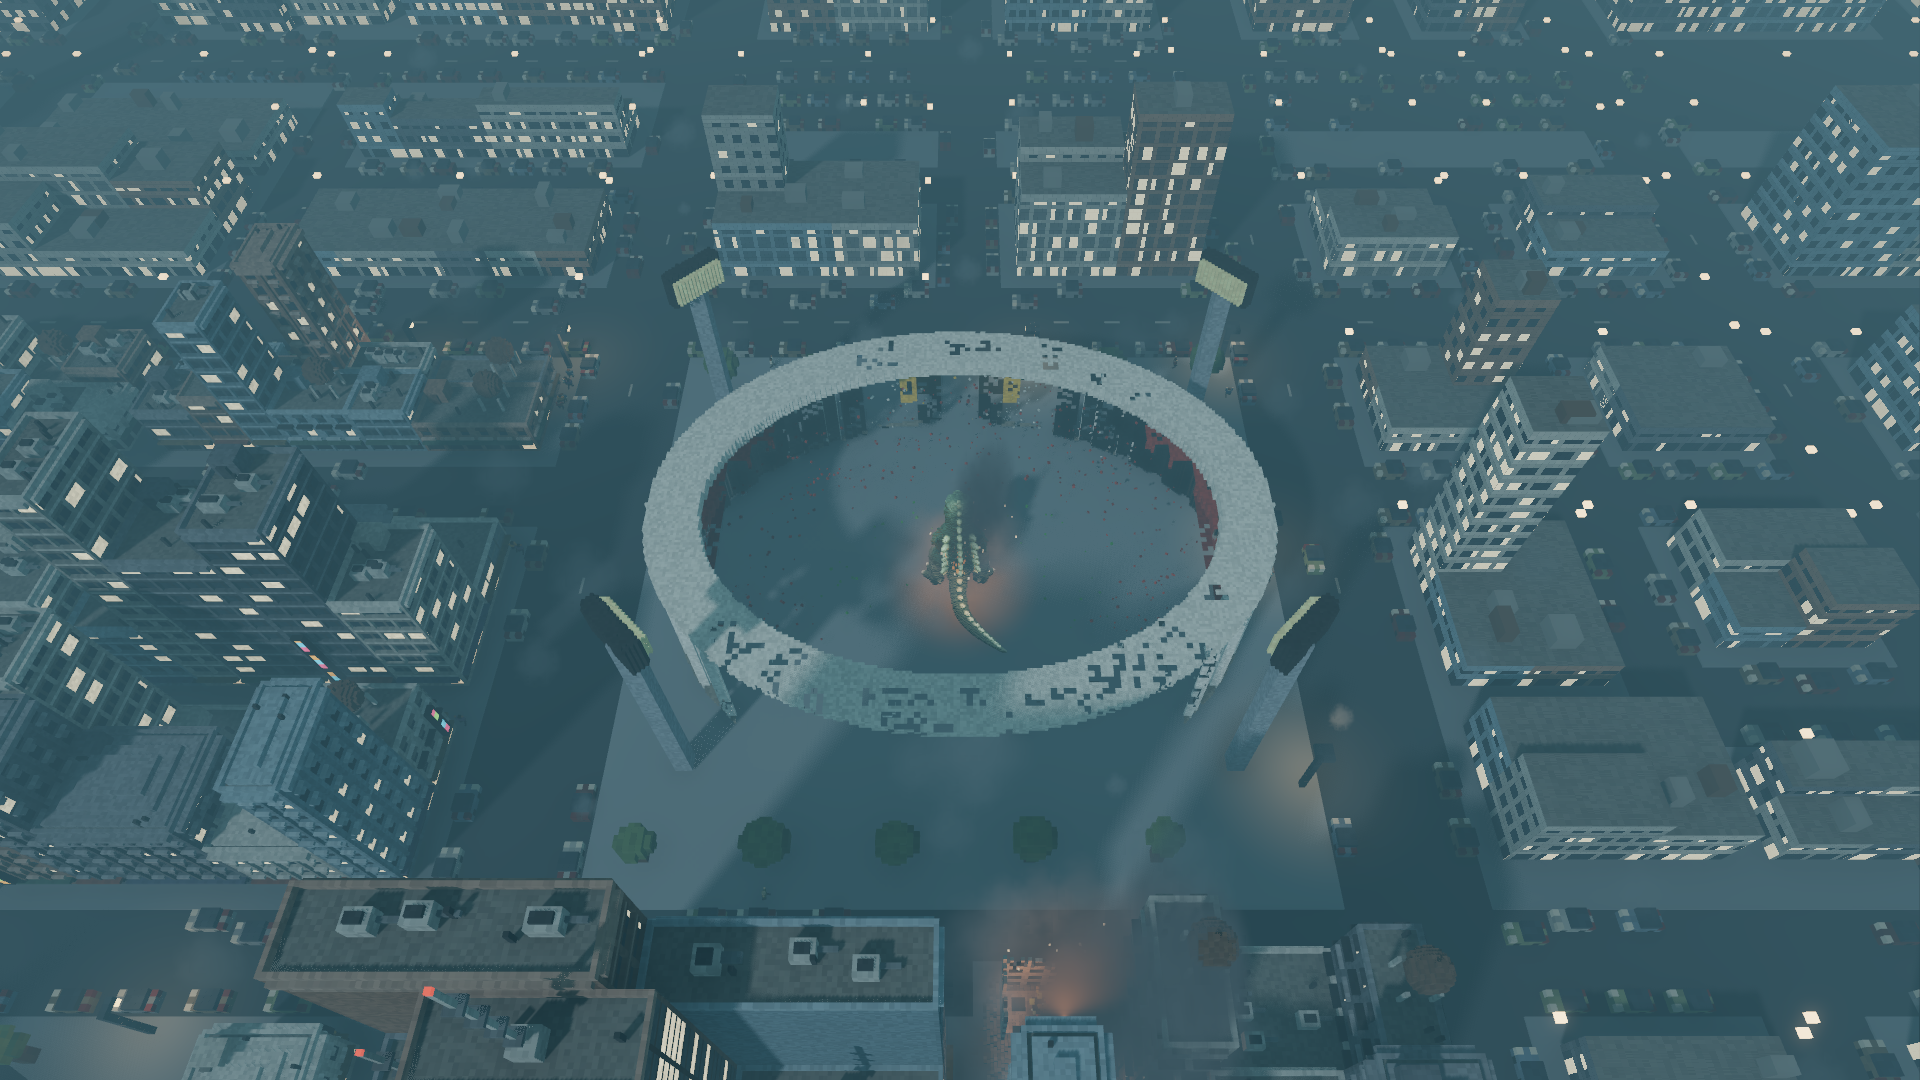
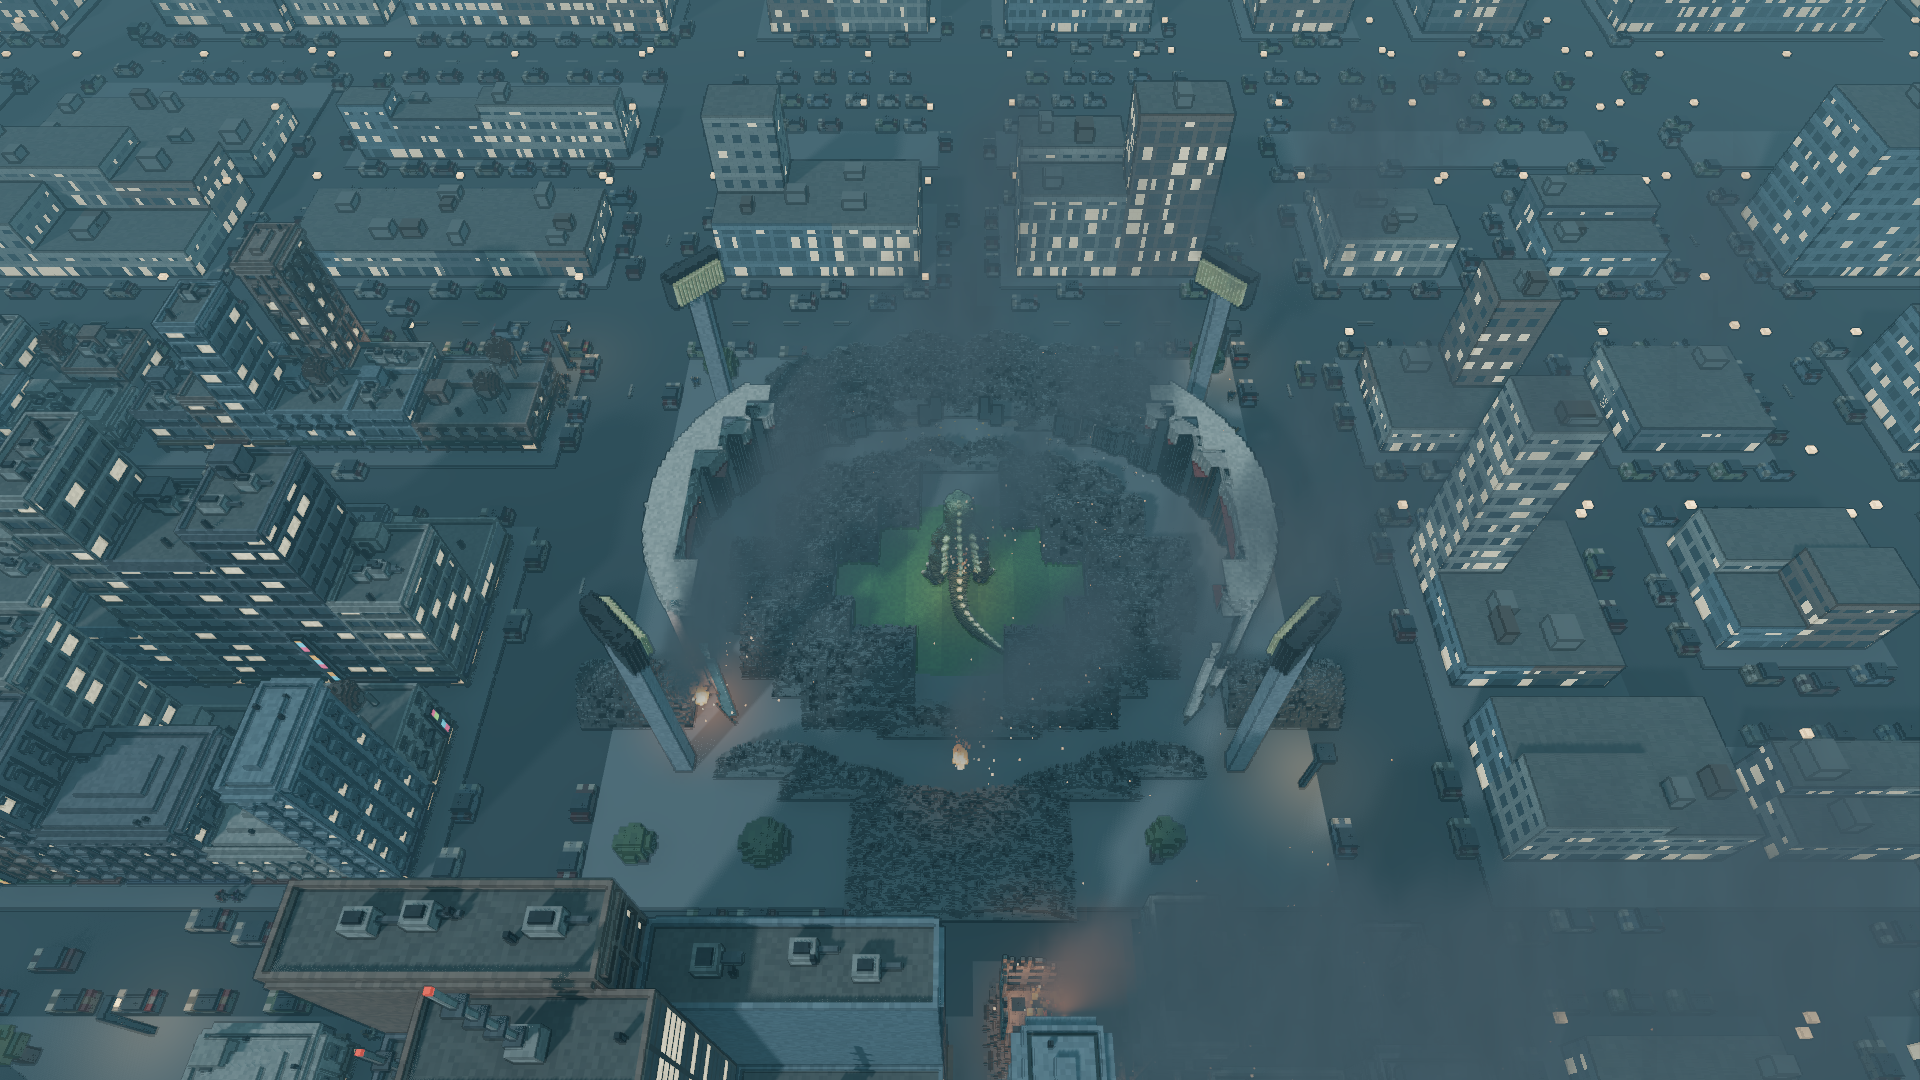
Stadium breaks as structure failing: arcs come down whole, no bites, pitch stays green
LEAD round 1 on #57. Arcs (sim): the stadium's plan is cut into 24 sectors
in two bands; the first chunk an arc loses brings everything of it above a
2-floor stub down as one topple (rim outward, stands inward), landing as a
rubble strip. Landmarks are never bitten round a hole (no speckle). The
pitch's voxels are also laid flat on the ground, so it stays green once
broken. Stand-as-built now checks every landmark (sim review).
City 19 -> 21, load 9 -> 11; new checks shown failing first.

diff --git a/tools/landmarks/bake.py b/tools/landmarks/bake.py
@@ -2,7 +2,7 @@
 assets/landmarks/<id>.kvox for presentation and its structural chunk mask in data/landmarks.json
 for the sim, so a landmark breaks chunk by chunk like every other building.
 
-    python tools/landmarks/bake.py <raw.kvox> <id>
+    python tools/landmarks/bake.py <raw.kvox> <id> [--ground=3f8f3a,4fa346]
 
 The raw shell is baked at 8 voxels per floor (BuildingVoxels.RES): voxelize.py with height
 round(model_height * 8) + 1. This step:
@@ -13,7 +13,9 @@ round(model_height * 8) + 1. This step:
     byte (bit k = BuildingMesher.NEIGHBOURS[k]: -x, +x, +y, -y, -z, +z). The mesher draws exactly
     those faces: a closed volume's inside is never drawn, as a building's hollow is not;
   - marks a chunk (one sim unit, one floor) as part of the structure when any cell in it is not
-    outside air: a voxel, or air sealed inside the model. The sim builds only those chunks.
+    outside air: a voxel, or air sealed inside the model. The sim builds only those chunks;
+  - --ground lists colours (a pitch) that LandmarkVoxels also lays flat on the ground, so the
+    ground under them stays that colour once their chunks are broken.
 Pure Python + numpy.
 """
 import json
@@ -66,7 +68,7 @@ def outside_air(occ):
         out = grown
 
 
-def bake(src, ident):
+def bake(src, ident, ground=()):
     cells, cols = read_kvox(src)
     lo, hi = cells.min(axis=0), cells.max(axis=0)
     span = hi - lo + 1
@@ -106,6 +108,8 @@ def bake(src, ident):
             data = json.load(f)
     data["landmarks"][ident] = {"w": w, "d": d, "h": h, "kvox": "res://assets/landmarks/%s.kvox" % ident,
                                 "chunks": layers}
+    if ground:
+        data["landmarks"][ident]["ground"] = list(ground)
     with open(DATA, "w", encoding="utf-8", newline="\n") as f:
         json.dump(data, f, indent="\t", sort_keys=True)
         f.write("\n")
@@ -114,4 +118,5 @@ def bake(src, ident):
 
 
 if __name__ == "__main__":
-    bake(sys.argv[1], sys.argv[2])
+    extra = [a[len("--ground="):].split(",") for a in sys.argv[3:] if a.startswith("--ground=")]
+    bake(sys.argv[1], sys.argv[2], extra[0] if extra else [])
